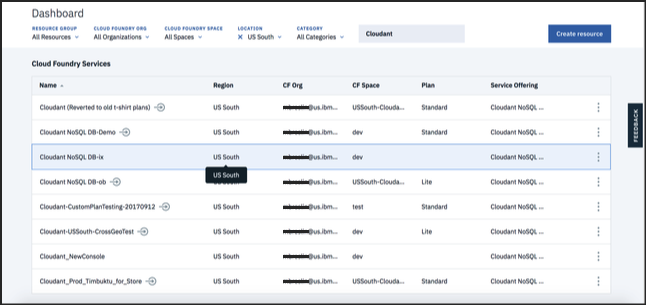
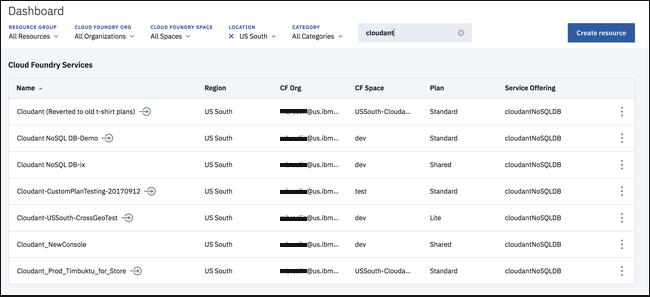
Update migration guide and image for fb111637b.

diff --git a/guides/migration.md b/guides/migration.md
@@ -54,7 +54,7 @@ If you exceed your quota of lookups, writes, and queries in a given second, the 
 
 ## Which type of {{site.data.keyword.cloudant_short_notm}} plan do I have?
 
-If you are using {{site.data.keyword.cloudant_short_notm}}, the {{site.data.keyword.cloud_notm}} dashboard shows all your {{site.data.keyword.cloudant_short_notm}} instances along with a Plan column. The Lite, Standard, and Dedicated Hardware plans are called out specifically. Any {{site.data.keyword.cloudant_short_notm}} instance that is lacking a plan name in that column will be using the deprecated Shared plan. In the following example, the 'Cloudant NoSQL DB-ix' and 'Cloudant_NewConsole' instances are on the deprecated Shared plan. 
+If you are using {{site.data.keyword.cloudant_short_notm}}, the {{site.data.keyword.cloud_notm}} dashboard shows all your {{site.data.keyword.cloudant_short_notm}} instances along with a Plan column. The Lite, Standard, and Dedicated Hardware plans are called out specifically. Any {{site.data.keyword.cloudant_short_notm}} instance that shows the Shared Dedicated plan name is part of an {{site.data.keyword.cloudant_short_notm}} Dedicated environment and not part of the Public Shared plan. Any {{site.data.keyword.cloudant_short_notm}} instance that shows a Shared plan name or lacks a plan name in that column is using the deprecated Shared plan. In the following example, the 'Cloudant NoSQL DB-ix' and 'Cloudant_NewConsole' instances use the deprecated Shared plan.  
 
 ![cloud dash](../images/ibmclouddashboard.png)
 
@@ -95,7 +95,10 @@ Now, you are ready to go!
 
 ## Migrating everything else to {{site.data.keyword.cloudant_short_notm}} Lite or Standard plan
 
-Migration from the Shared or Enterprise plans to {{site.data.keyword.cloudant_short_notm}} Lite or Standard plans includes the following tasks, which are described in the following steps: 
+Migration from the Shared or Enterprise plans to {{site.data.keyword.cloudant_short_notm}} Lite or Standard plans includes these tasks, which are described in the following steps. 
+
+You cannot directly change a Shared plan instance to a Lite or Standard plan instance. Migration requires that you create a new Lite or Standard plan instance and replicate the data over from the Shared plan instance. 
+{: tip}
 
 ### Step 1: Sign up for {{site.data.keyword.cloud_notm}}
 
